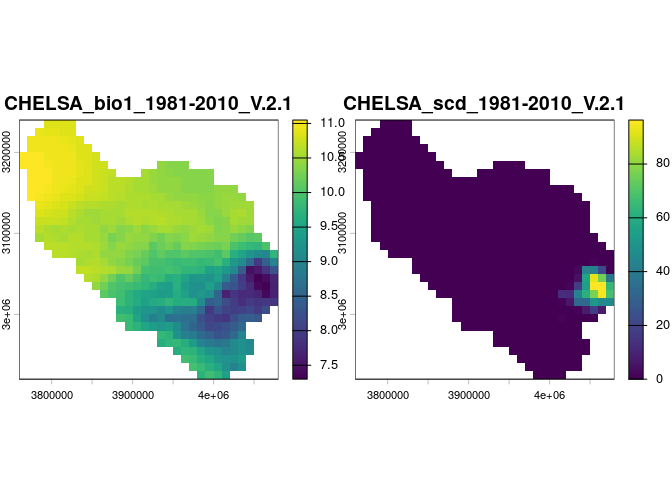
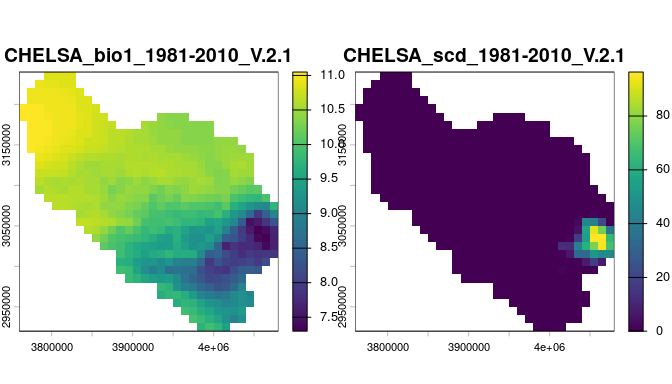
update terra; minor fixes

diff --git a/README.md b/README.md
@@ -5,23 +5,24 @@
 
 Most global-coverage raster layers containing variables used in species
 distribution models come in unprojected longitude-latitude coordinates,
-with a nominal spatial resolution like “approximately 1x1 km2 at the
-equator”. One problem is that lon-lat pixels are not equal-area, and
-they’re not really 1x1-km2 either (or whatever is their nominal
-resolution): Because the longitude meridians converge towards the poles,
-lon-lat pixels cover progressively smaller areas as we move away from
-the Equator, and they are already considerably smaller than their
-nominal resolution across temperate areas like Europe. Their actual
-sizes can be checked e.g. with the `terra::cellSize()` function.
+with a nominal spatial resolution like “*approximately 1x1 km2 at the
+equator*”. One problem is that lon-lat pixels are not equal-area, and
+they’re not really 1x1-km2 either (or whatever their nominal resolution
+is): Because the longitude meridians converge towards the poles, lon-lat
+pixels cover progressively smaller areas as we move away from the
+Equator, and they are already considerably smaller than their nominal
+resolution across temperate areas like Europe. Their actual sizes can be
+checked e.g. with the `terra::cellSize()` function.
 
 If we want our raster variables on a grid of pixels that matches an
-equal-area grid within a given region (such as the EEA reference grid in
-Europe), we can use the `regrid()` function to convert raster layers
-into such equal-area grid. Below is a worked example. We start by
-downloading some variable layers from the CHELSA website, using the
-`downloadif()` function also included in the `regridR` package. This
-will download files if they haven’t already been completely downloaded
-and saved in the destination folder:
+actually equal-area grid within a given region (such as the EEA
+reference grid in Europe), we can use the `regrid()` function of the
+`regridR` package to convert raster layers into such equal-area grid.
+Below is a worked example. We start by downloading some variable layers
+from the CHELSA website, using the `downloadif()` function also included
+in the `regridR` package. This will download files if they haven’t
+already been (completely) downloaded and saved in the destination
+folder:
 
 ``` r
 # LOAD REQUIRED PACKAGES ----
@@ -29,7 +30,7 @@ and saved in the destination folder:
 library(regridR)
 
 library(terra)
-#> terra 1.9.13
+#> terra 1.9.46
 
 
 # DOWNLOAD SOME VARIABLES ----
@@ -58,10 +59,10 @@ layers <- terra::rast(list.files("outputs/variables", full.names = TRUE))
 terra::plot(layers, nc = 1)
 ```
 
-<img src="man/figures/README-unnamed-chunk-1-1.png" width="100%" />
+<img src="man/figures/README-unnamed-chunk-1-1.png" alt="" width="100%" />
 
-Next, we will import a vector polygon map of an equal-area grid
-recommended by the European Environment Agency (EEA):
+Next, we will import a vector polygon map of a 10x10-km^2 equal-area
+grid recommended by the European Environment Agency (EEA):
 
 ``` r
 # IMPORT EQUAL-AREA VECTOR GRID ----
@@ -72,11 +73,12 @@ EEAgrid <- terra::vect(system.file("extdata/eea10_belgium.gpkg",
 terra::plot(EEAgrid)
 ```
 
-<img src="man/figures/README-unnamed-chunk-2-1.png" width="100%" />
+<img src="man/figures/README-unnamed-chunk-2-1.png" alt="" width="100%" />
 
 We can project the vector grid to overlay a part of the climate layers,
-and see that they don’t align (and the pixels are not equal-area), so
-simply aggregating the raster pixels wouldn’t be a good option:
+and see that they don’t align (and the pixels are not equal-area or
+1-km^2), so simply aggregating the raster pixels into larger ones isn’t
+a good option:
 
 ``` r
 terra::plot(layers[[1]], maxcell = ncell(layers), ext = c(5, 5.4, 49.5, 49.7))
@@ -84,7 +86,7 @@ terra::plot(layers[[1]], maxcell = ncell(layers), ext = c(5, 5.4, 49.5, 49.7))
 terra::plot(terra::project(EEAgrid, layers), add = TRUE)
 ```
 
-<img src="man/figures/README-unnamed-chunk-3-1.png" width="100%" />
+<img src="man/figures/README-unnamed-chunk-3-1.png" alt="" width="100%" />
 
 So, we’ll use the `regrid()` function of the `regridR` package to get
 the climate layers on a raster grid whose pixels match the input EEA
@@ -119,7 +121,7 @@ layers_regrid <- regridR::regrid(layers = layers, grid = EEAgrid,
 terra::plot(layers_regrid)
 ```
 
-<img src="man/figures/README-unnamed-chunk-5-1.png" width="100%" />
+<img src="man/figures/README-unnamed-chunk-5-1.png" alt="" width="100%" />
 
 We can visually check that the output (re-gridded) `layers`’ pixels
 align with the input EEA `grid`:
@@ -130,4 +132,4 @@ terra::plot(layers_regrid[[1]])
 terra::plot(EEAgrid, lwd = 0.2, add = TRUE)
 ```
 
-<img src="man/figures/README-unnamed-chunk-6-1.png" width="100%" />
+<img src="man/figures/README-unnamed-chunk-6-1.png" alt="" width="100%" />
